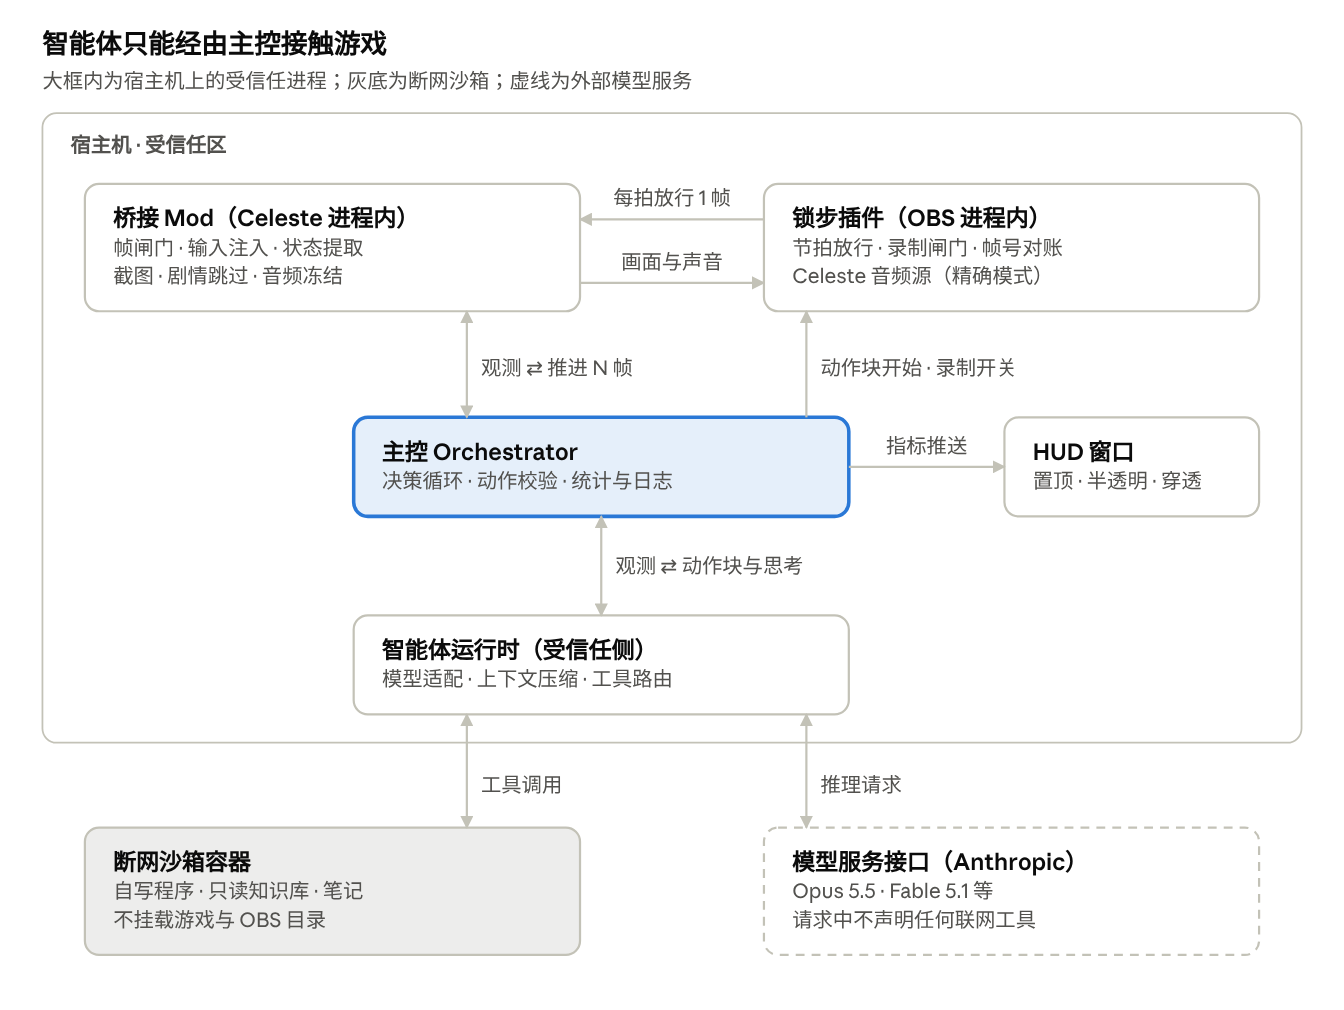
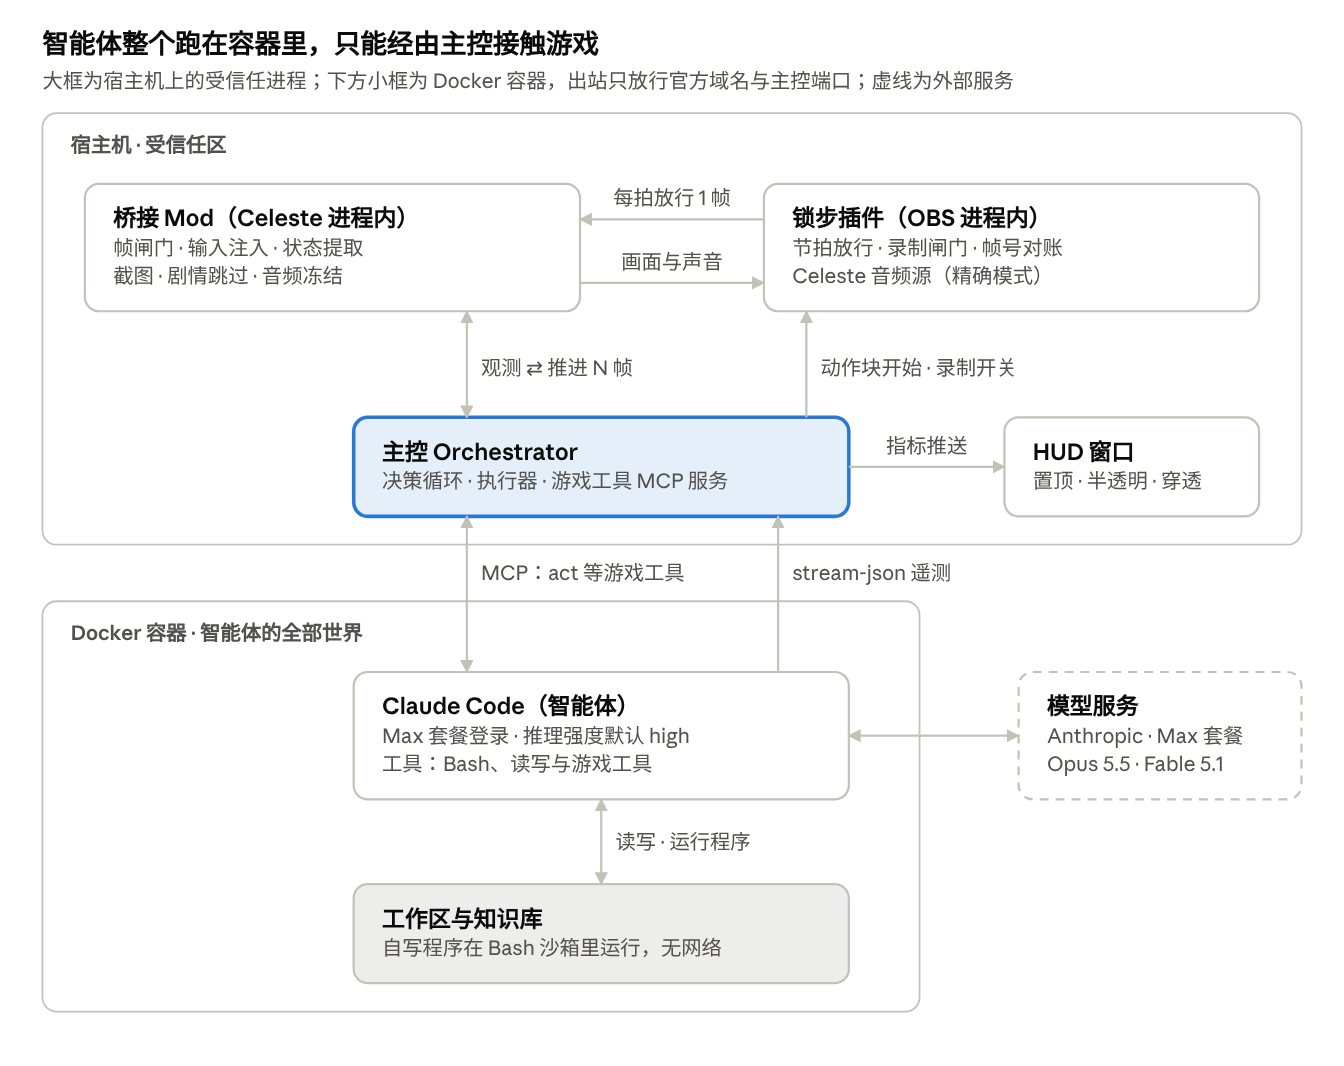
沙箱落地方案：用 Max 套餐在 Docker 容器中运行 Claude Code
- 设计文档新增第 13 节：认证（setup-token）、五层隔离、功能映射、用量与额度、Windows 部署步骤
- 架构图重画：智能体整体运行在出站受限的容器内，经 MCP 调用主控的游戏工具
- 第 2、4、5、9、10 节同步更新（工具表、统计口径、目录结构、风险）
- README 与使用说明：环境要求改为 Max 套餐，新增令牌生成与容器隔离测试步骤

Claude-Session: https://claude.ai/code/session_012y5Jme59DB71jHrsRKddCs

diff --git a/docs/USAGE.md b/docs/USAGE.md
@@ -12,9 +12,9 @@
 | 游戏 | Steam 版《蔚蓝》（Celeste） | 示例安装目录：`D:\Fluency\software\steam\steamapps\common\Celeste` |
 | Mod 加载器 | Everest，用 Olympus 安装 | 安装前先备份游戏目录 |
 | 录制 | OBS Studio 28 或更新 | 示例安装目录：`D:\Fluency\software\steam\steamapps\common\OBS Studio` |
-| 容器 | Docker Desktop（WSL2 后端） | 智能体的工具在断网容器中运行 |
-| 运行环境 | Python 3 | 主控与智能体运行时 |
-| 模型 | Anthropic API 密钥 | 写入本地 `.env`，不提交到仓库 |
+| 容器 | Docker Desktop（WSL2 后端） | 智能体（Claude Code）整体运行在容器中 |
+| 运行环境 | Python 3 | 主控 |
+| 模型 | Claude Max 套餐，无需 API 密钥 | 在 Windows 上装好 Claude Code，用 `claude setup-token` 生成长期令牌 |
 
 ## 2. 一次性准备
 
@@ -28,16 +28,18 @@
 | 6 | 安装桥接 Mod（CelesteAI.Bridge） | 未实现 |
 | 7 | 安装 OBS 锁步插件，放入 OBS 目录下的 `obs-plugins\64bit` 与 `data\obs-plugins\<插件名>` | 未实现 |
 | 8 | 在 OBS 中建场景：游戏捕获（Celeste.exe）、应用音频捕获（Celeste.exe）、HUD 浏览器源；输出 60 fps，录制格式 MKV，关闭桌面音频与麦克风 | 可预先配置 |
-| 9 | 构建断网沙箱镜像 | 未实现 |
-| 10 | 生成并审核知识库（物理参数与机制） | 未实现 |
-| 11 | 复制配置模板，填入游戏与 OBS 路径、存档槽位、API 密钥 | 未实现 |
+| 9 | 在 Windows 上安装 Claude Code，运行 `claude setup-token` 用 Max 账号登录，把得到的令牌写入项目根目录的 `.env`（变量名 `CLAUDE_CODE_OAUTH_TOKEN`）。`.env` 里不要放 `ANTHROPIC_API_KEY`，否则会改按 API 计费 | 可执行 |
+| 10 | 构建智能体镜像：固定版本的 Claude Code、防火墙脚本、托管配置、非 root 用户 | 未实现 |
+| 11 | 运行容器隔离测试：`claude auth status` 显示订阅令牌；访问非白名单网站失败；Bash 里访问任何网站都失败 | 未实现 |
+| 12 | 生成并审核知识库（物理参数与机制） | 未实现 |
+| 13 | 复制配置模板，填入游戏与 OBS 路径、存档槽位 | 未实现 |
 
 ## 3. 运行一次挑战（未实现）
 
 计划中的流程如下，全部由主控自动串联：
 
 1. **准备阶段（不计时）**：在 `test` 存档上让智能体编写模拟器与规划程序并完成校准；`test` 存档可随时重置，不计成绩。
-2. **正式挑战**：启动游戏与 OBS，启动主控并指定智能体（如 Opus 5.5）与对应的正式存档。
+2. **正式挑战**：先在 Claude Code 里用 `/usage` 确认 Max 额度充足，最好在一个新的 5 小时窗口里开跑；然后启动游戏与 OBS，启动主控并指定智能体（如 Opus 5.5）与对应的正式存档。主控会为该存档启动独立容器并在其中运行 Claude Code。
 3. 主控校验存档名与槽位，备份存档，开始录制。
 4. 从正式存档进入序章时开始 2 小时计时，依次通关序章、1A、2A。剧情能跳过的一律自动跳过。推理强度默认 high，可按房间难度动态调整。
 5. 运行期间右上角 HUD 显示游戏时间、思考与工具时间、上下文大小、压缩次数、当前房间与思考语句，思考语句约每 3 秒刷新一次。
@@ -62,3 +64,5 @@
 | Steam 更新了游戏或 OBS 后出错 | 插件与 Mod 和版本绑定，需重新编译并重跑校准测试 |
 | 游戏窗口失焦后弹出暂停菜单 | 桥接 Mod 会屏蔽此行为；若仍出现，检查 Mod 是否加载 |
 | 存档进度不对 | 从 `runs/` 中的存档备份恢复，并确认已关闭云同步 |
+| 运行中途停下，提示达到用量上限 | Max 额度触顶后无头运行不会自动等待；主控会暂停计时，额度恢复后续跑，成绩中注明 |
+| 想用 Fable 5.1 | Max 上 Fable 另有用量限制，先在 Claude Code 的 `/model` 列表确认可用及计费方式 |

diff --git a/README.md b/README.md
@@ -16,7 +16,7 @@
 | M0 环境准备 | 安装 Everest，创建 opus5.5、fable5.1 正式存档与 test 存档，建好仓库结构 | 未开始 |
 | M1 桥接 Mod 基础 | 帧闸门、输入注入、状态提取、画面截取、IPC | 未开始 |
 | M2 单智能体闭环 | 主控、智能体运行时、act 工具，在序章跑通 | 未开始 |
-| M3 沙箱、工作区与知识库 | 断网容器、程序工作区、知识库生成与审核、上下文压缩 | 未开始 |
+| M3 沙箱、工作区与知识库 | Claude Code 容器与出站白名单、程序工作区、知识库生成与审核、压缩计数 | 未开始 |
 | M4 分层执行 | 执行器、计划文件执行、偏差监控、自动重试 | 未开始 |
 | M5 HUD | 右上角置顶半透明信息卡片 | 未开始 |
 | M6 录制 | OBS 锁步插件（方案 B）与音频冻结 | 未开始 |
@@ -28,7 +28,7 @@
 
 - **桥接 Mod**（Everest Mod，运行在游戏进程内）：逐帧暂停与放行游戏、注入按键、提取 Madeline 状态与碰撞箱、截图、自动跳过剧情。
 - **主控**：唯一同时连接游戏、智能体、HUD 与 OBS 的组件，负责决策循环、执行与日志。
-- **智能体运行时与沙箱**：智能体只能使用主控定义的工具；它写的程序只在断网容器里运行，看不到游戏代码与进程。
+- **智能体容器**：智能体就是运行在 Docker 容器里的官方 Claude Code，用 Max 套餐登录，无需 API 密钥。容器出站只放行 Anthropic 官方域名与主控端口，联网工具全部禁用，自写程序在无网络的 Bash 沙箱里运行，看不到游戏代码与进程。
 - **HUD**：右上角置顶半透明卡片，显示游戏时间、思考与工具时间、上下文大小、压缩次数、当前房间与当前思考。
 - **OBS 锁步插件**：OBS 每个视频节拍放行一个游戏帧，思考期间录制暂停，录像帧数与游玩帧数一一对应。
 
@@ -52,8 +52,7 @@ Celeste_AI_Play/
 ├── game-bridge/     桥接 Mod（C#，Everest）
 ├── obs-plugin/      OBS 锁步插件（C/C++，libobs）
 ├── orchestrator/    主控与执行器（Python）
-├── agent-runtime/   智能体运行时（Python）
-├── sandbox/         断网工具容器
+├── agent-container/ 智能体容器（Claude Code、防火墙、托管配置）
 ├── kb-builder/      知识库生成（离线）
 ├── overlay/         HUD 页面与置顶窗口
 ├── configs/         配置
@@ -78,6 +77,7 @@ Celeste_AI_Play/
 
 | 日期 | 内容 |
 | --- | --- |
+| 2026-10-22 | 沙箱落地方案：Claude Code 以 Max 套餐运行在出站受限的 Docker 容器中；架构图更新；新增 test 存档、计时起点与推理强度约定 |
 | 2026-10-22 | 初始化仓库：设计文档（含提速方案与 HUD 视觉规范）、README、使用说明 |
 
 ## 参考
